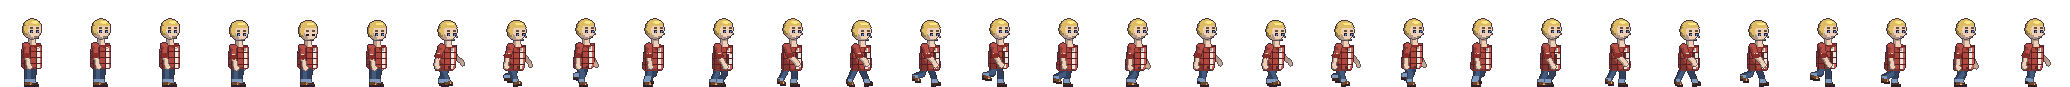
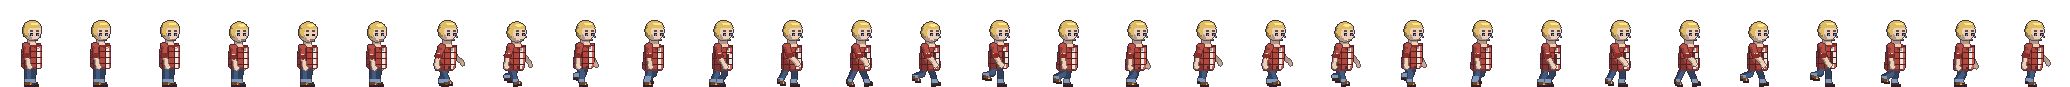
People: short, thick necks (they were long stalks)
Claude-Session: https://claude.ai/code/session_01ANpZxvvcv9nsgWy9iXumGL

diff --git a/tools/art/people.py b/tools/art/people.py
@@ -216,7 +216,7 @@ def skeleton(pose, p=None):
     sh_y = hipy - back * math.cos(bend) + g.get('breath', 0)
     j['hip'] = (hip[0], hipy)
     j['neck'] = (sx + 0.5, sh_y - 1.0)
-    j['head'] = (sx + 1.5 + 6.0 * math.sin(bend), sh_y - 9.6 * math.cos(bend * 0.75) + g.get('nod', 0))   # (8.0: the head sat ON the shoulders — no neck)
+    j['head'] = (sx + 1.5 + 6.0 * math.sin(bend), sh_y - 8.7 * math.cos(bend * 0.75) + g.get('nod', 0))   # (8.0: the head sat ON the shoulders — no neck)
     for side, ox in (('n', -3.0), ('f', 3.4)):
         a1, a2 = g[side + '_arm']
         j['shoulder_' + side] = (sx + ox * math.cos(bend), sh_y + 1.5 + abs(ox) * 0.4 * math.sin(bend))
@@ -475,9 +475,9 @@ def draw(p, pose, item=None):
     # ---- the NECK (owner: "none of them have necks which is odd"): a short column of skin, shaded down its back, the collar's shadow across its foot
     if not crawl and st != 'hood':
         nx_, ny_ = int(round(j['neck'][0])), int(round(j['neck'][1]))
-        c.rect(nx_ - 2, ny_ - 4, nx_ + 2, ny_ + 1, skin['m'])
-        c.rect(nx_ - 2, ny_ - 4, nx_ - 1, ny_ + 1, skin['d'])
-        c.rect(nx_ - 1, ny_ - 4, nx_ + 2, ny_ - 3, skin['d'])                       # the chin's shadow
+        c.rect(nx_ - 3, ny_ - 3, nx_ + 2, ny_ + 1, skin['m'])                       # short and as thick as a neck is: it only has to show under the chin
+        c.rect(nx_ - 3, ny_ - 3, nx_ - 2, ny_ + 1, skin['d'])
+        c.rect(nx_ - 3, ny_ - 3, nx_ + 2, ny_ - 1, skin['d'])                       # the chin's shadow
     body_ = c                                                                       # the head is its own layer, so its own line holds it against the collar
     c = Cel()
     # ---- the head: ROUND, bigger than the shoulders are wide. Hair is one dome that wraps the top and the back; the face is a soft oval set into

diff --git a/docs/STATUS_LOG.md b/docs/STATUS_LOG.md
@@ -2573,4 +2573,5 @@ round at the bottom, above the "Not started" line. An entry marked SUPERSEDED is
 - **2026-11-12 — THE PLAYERS AND THE DEAD in the new manner, a DESIGN pass (owner: "Now redesign the player characters and enemies in this style"):** `tools/art/people.py` — `PLAYERS` (Joe the tenant: blond, an olive jacket worn open, jeans; Vivianne: long blonde hair, a pale blue top with a band, dark leggings, white trainers; Alex the super: bald, a navy boiler suit with brass buttons; Amina the nurse: hair in a bun, teal scrubs, white trainers) and `ENEMIES` (walker, big, crawler, longarm, spitter), all on the neighbours' rig. The rig grew for them: `skeleton(pose, p)` takes a person's BUILD (`tall`, `arm`, `hip_dx`) and a `spine` angle (0 upright … ~80 on all fours); `thick` weighs the limbs; a body past 55 degrees is drawn as a barrel between hips and shoulders (`crawl`), with its own crawl cycle; `extras` = `hump` (the big one's shoulders) / `sack` (the spitter's throat, which fills on the breath); `stains` soak the cloth; the dead's face is `DEAD_FACE` (a pale dot adrift in a dark socket, a `maw` with teeth and drool); a person's own `pose` lies over every frame (the walker's reaching arms), `stride` / `drag` make a shamble. The design grid is 46 x 58 (was 36 x 48: the big one needs headroom, the crawler length) → a 69 x 87 cell. Outputs: `cast_sheet.png` (idle · walk), `cast_walk.gif`, `cast_idle.gif`, strips in `assets/people` (`people.json` `groups`: neighbours / players / dead), `ingame_cast.gif` / `.png` (floor 29's corridor; `scene_capture` step `people:<x0>:<x1>:<size>:<group>`). **NOT DONE — this is design only: the game still runs on the old rigs.** No attack, shove, crouch, hit, death, stair, kneel or hide animation exists for any of them; the players have no carry cycle on their strip (the walk stands in); the big one is taller than the old Big's collision was never compared; nothing was measured against `docs/Y_PLANES.md` beyond standing on the feet line. Suites: `title_test` + the import, the script-error scan, the art checks.
 - **2026-11-12 — THE CAST, second go: CEL, not 3D; who the four are; clothes that say so (owner: "these are starting to look a little too 3D… a sort of cross between pixel and cell shading cartoonish… stylised with clear identifiable detail so players know who they are playing as… one of those characters you made is an old man… meant to be a black man. We have a white man, white blonde woman, black man and indian woman… the clothes are bland and lacking detail, Amina somehow looks like she is wearing hospital scrubs. The enemy designs too are not great. The one on all fours sort of looks like a racing jockey… These are not great first goes"):** `tools/art/people.py`. SHADING is cel: flat colour and ONE hard-edged shadow shape per mass (`Cel.rows`), a limb flat with a shadow down its back (`limb`), one hard shine on hair, and every edge pixel darkened toward the ink (`_outline`: a line of the shape's OWN colour, the silhouette does not grow). THE FOUR: Joe — a white man, blond, a red CHECKED shirt open over a white tee, jeans turned up, brown boots; Vivianne — a white woman, blonde ponytail with a blue band, a coral zip-up with a white yoke, black leggings with a stripe, white trainers; Alex — a BLACK man in his thirties (cropped hair, a short beard), navy overalls with the sleeves off, a name patch, a tool belt with a pouch, tan boots (the owner wrote "aaron": the data and `docs/CHARACTERS.md` say Alex — not renamed); Amina — an INDIAN woman, one long plait over her shoulder, a mustard cardigan open over a magenta top, dark trousers, a bag's strap across her (a nurse OFF duty: no scrubs). CLOTHES are data: `marks` (check, hstripes, zip, collar, belt + buckle + pouch, patch, strap, hem, yoke — clipped to the garment), `leg_stripe`, `turnup`, `sleeves=False` (a short sleeve over a bare arm); hair `ponytail` / `braid` / `crop`. THE DEAD: hollow sockets with a pale dot, a wider maw with gappy teeth, torn hems, bare arms; the crawler is bald with its spine standing out (no more 'jockey'); the spitter's sack is at the throat. **The owner has not seen this go. The dead are still the weaker half — bodies are right in outline, but they want the same care the four got.** Design only: the game runs on the old rigs. Suites: `title_test` + the import, the script-error scan, the art checks (re-run on the final tree below).
 - **2026-11-12 — THE CAST, third go: necks, arms, Alex, Vivianne — and THE ENEMIES ARE NO LONGER ZOMBIES (owner: "The legs on all four player characters are fantastic actually, no notes… it was Alex not Aaron… the mustache and beard on Alex looks a little racially stereotypical. Vivianne's head and hair do with improvement and a bit more colour. None of them have necks which is odd. And the chest and arms, those don't look great… As for the enemies… all still look pretty poor and need mega refinement… our original enemies were also placeholder, so we don't need to stick to zombies. We can make grotesque monsters that fit the standard, crawler, big, long arm, spitter names… horror, pulsating, gross, some can have multiple arms, some might have no discernable heads. Some could look more fly or creature like. Imagine the things that came out of Stephen King's The Mist, but the movie version. We want not just another zombie game"):** PEOPLE (`tools/art/people.py`, legs untouched): a NECK (the head sits 1.6 higher; a short column of skin with the chin's shadow); the HEAD and the NEAR ARM are their own layers, each outlined before it is laid over the body, so a line holds them against the coat; the arm is a heavier upper bone and a lighter forearm with a round shoulder, `rolled` (sleeves to the elbow) and `cuff` colours, the shadow-capsule gone; `shoulders` widens a chest; `iris` puts a fleck of eye colour in. Alex is clean-shaven with a smile; Vivianne has golden hair swept across the brow and tied high with a pink band (two-tone, `hair2`), blue eyes, white cuffs; Amina's plait is the long drape down her back (the beaded plait read as a wedge) and the strap is gone. THE THINGS (`tools/art/creatures.py`, new; `people.ENEMIES` = five `creature` entries; the humanoid dead of the last two goes are deleted): the HUSK (standard — headless, a mouth split from collar to belly, eyes on a shoulder, hook arms, sacs on its back), the LOUSE (crawler — a segmented fly-thing on six jointed legs, one red eye, jaws, stub wings), the BULK (big — a sack on four pillars, a ring of teeth, boils that rise and sink, a fringe of small arms), the REACH (longarm — a small body high on four arms with the elbows above its back, a sucking mouth, withered legs), the GULLET (spitter — a grub on bird legs with a tube of neck and a sack of yellow that fills as it breathes). Idle (they pulse) and a 12-frame walk each; original designs, in the spirit asked for, not copies of any film's creatures. **CONSEQUENCES NOT ACTED ON: the game, its docs and its text call the enemies "the dead" / zombies throughout (NPC_AI.md, the GDD, item text, `enemy_zombie_*.gd`); if these replace them, that wording and CLAUDE.md's "Context" section (nothing may imply what the event IS) need the owner's ruling.** Design only — the game runs on the old rigs. Suites: `title_test` + the import, the script-error scan, the art checks.
+- **2026-11-12 — NECKS FIXED (owner: "the necks on the player characters are insane. They need to be fixed absolutely"):** the head sits 8.7 above the shoulder line (it was raised to 9.6, with a 4-wide column under it: a long thin stalk); the neck is 6 design px wide and shows for about two drawn pixels under the chin, all of it in the chin's shadow but its front. Applies to every person on the rig (players and neighbours). Judged on `cast_players.png`. Design only.
 
